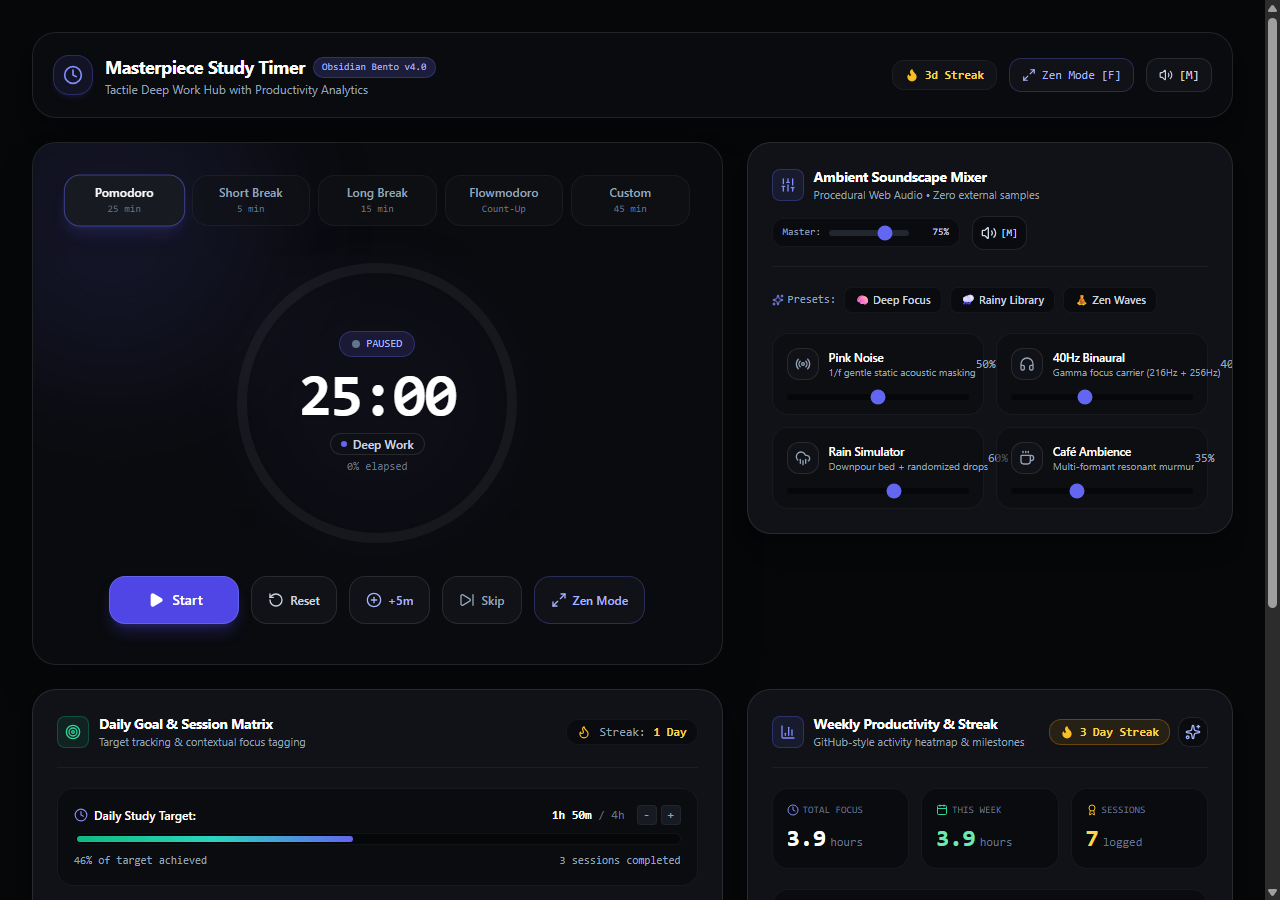
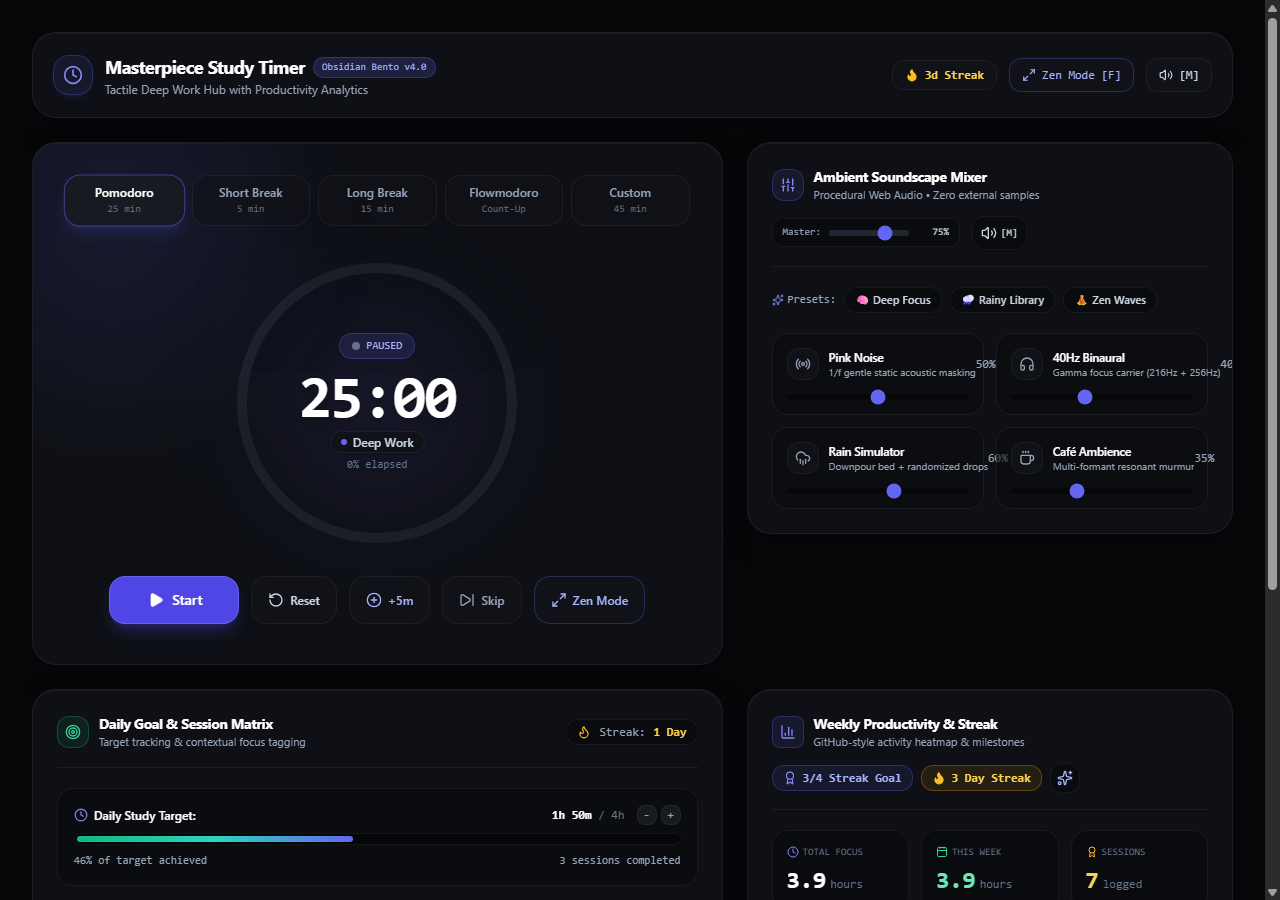
feat: productivity tracking, github heatmap, daily streak, & 4-session confetti milestone

diff --git a/src/components/analytics/AnalyticsTile.tsx b/src/components/analytics/AnalyticsTile.tsx
@@ -88,7 +88,17 @@ export const AnalyticsTile: React.FC<AnalyticsTileProps> = ({ analytics }) => {
             </div>
           </div>
 
-          <div className="flex items-center gap-2">
+          <div className="flex flex-wrap items-center gap-2">
+            {/* 4-Session Streak Milestone Pill */}
+            <div className="flex items-center gap-1.5 text-xs font-mono bg-indigo-500/10 border border-indigo-500/30 text-indigo-300 px-2.5 py-1 rounded-xl shadow-sm">
+              <Award className="w-3.5 h-3.5 text-indigo-400" />
+              <span className="font-bold tabular-nums">
+                {analytics.completedTodayCount >= 4 
+                  ? '🎉 4-Streak Milestone!' 
+                  : `${analytics.completedTodayCount % 4}/4 Streak Goal`}
+              </span>
+            </div>
+
             <div className="flex items-center gap-1.5 text-xs font-mono bg-amber-500/10 border border-amber-500/30 text-amber-300 px-2.5 py-1 rounded-xl shadow-sm">
               <Flame className="w-3.5 h-3.5 fill-current text-amber-400" />
               <span className="font-bold tabular-nums">{streakDays} Day Streak</span>

diff --git a/src/hooks/useStudyAnalytics.ts b/src/hooks/useStudyAnalytics.ts
@@ -226,9 +226,13 @@ export function useStudyAnalytics(): StudyAnalyticsHook {
       setSessions((prev) => {
         const updated = [...prev, sessionObj];
 
-        // Milestone reward check: Trigger confetti celebration on every 4th focus session completed
+        // Milestone reward check: Trigger grand confetti celebration on 4-session streak milestone
+        const todaySessions = updated.filter(
+          (s) => s.date === sessionObj.date && s.mode !== 'shortBreak' && s.mode !== 'longBreak'
+        );
         const focusSessions = updated.filter((s) => s.mode !== 'shortBreak' && s.mode !== 'longBreak');
-        if (focusSessions.length > 0 && focusSessions.length % 4 === 0) {
+
+        if (todaySessions.length === 4 || (focusSessions.length > 0 && focusSessions.length % 4 === 0)) {
           triggerMilestoneConfetti();
         } else {
           triggerSessionCompleteConfetti();
